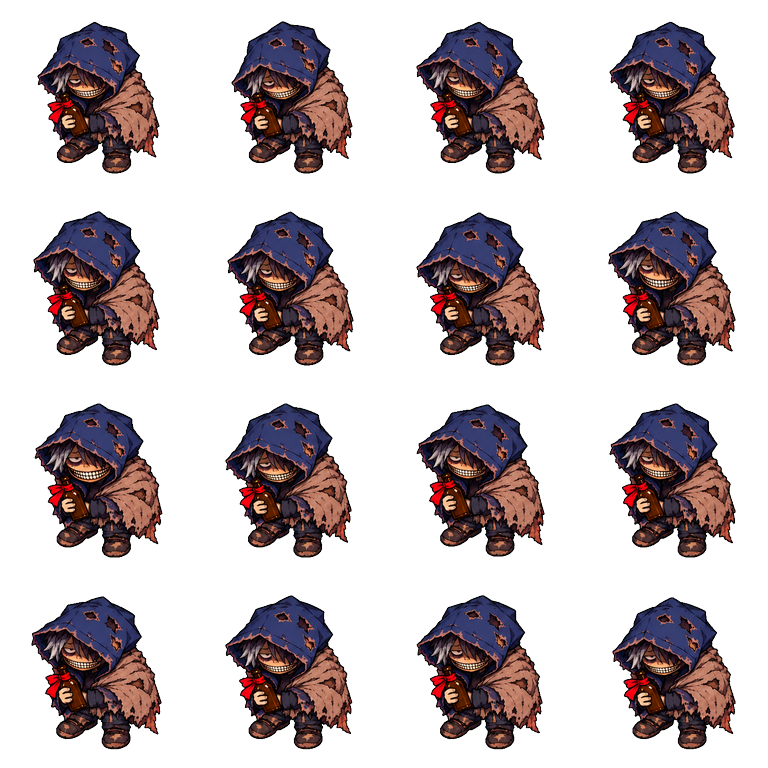
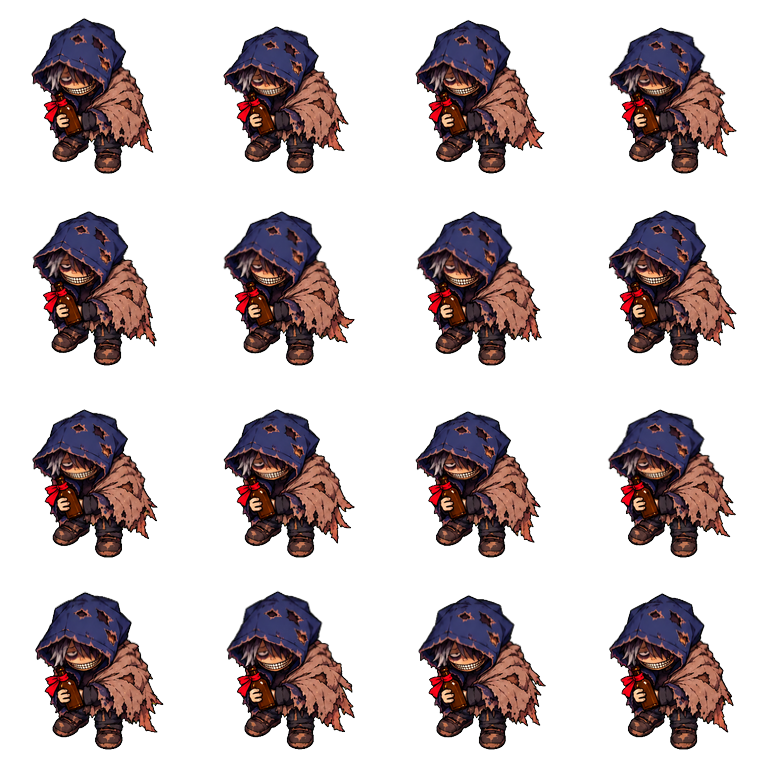
teste ?inimigo=mendigo: idle v10 + walk16 em 8 direções (cabeça própria, sem carimbo)

diff --git a/src/client/art/teste-inimigo.ts b/src/client/art/teste-inimigo.ts
@@ -1,14 +1,23 @@
 /**
  * TESTE (não vai para produção): `?inimigo=mendigo` troca a arte de TODOS os inimigos (horda, elites e chefe) pelo
- * parado de frente do mendigo (16 quadros, card marca-dos-inimigos v8). Só existe o parado de frente: o inimigo
- * desliza parado quando anda, toda direção mostra a frente e as ações (golpe, piada, morte) ficam sem arte.
- * Todos ficam do tamanho padrão (0,9 do herói), sem o tamanho por papel; a elite mantém o seu aumento.
+ * mendigo do card marca-dos-inimigos: parado de frente v10 (16 quadros, só a frente) e andar walk16 nas 8 direções
+ * (16 quadros por direção, uma página 4×4 por direção na ordem das linhas da horda: S, SW, W, NW, N, NE, E, SE; o SE
+ * é o espelho do SW). Anda na direção do movimento e fica parado de frente quando para; as ações (golpe, piada,
+ * morte) ficam sem arte. Todos ficam do tamanho padrão (0,9 do herói), sem o tamanho por papel; a elite mantém o
+ * seu aumento.
  */
 import type {ArtFile,ArtIndex,ArtPiece} from './manifest.ts';
 
-const TESTES:Readonly<Record<string,ArtFile>>={
-  mendigo:{file:'teste-mendigo/idle.webp',cell:[192,192],frames:16,directions:1,anchor:[.5,.9],fps:8,
-    pages:[{file:'teste-mendigo/idle.webp',columns:4,rows:4,firstFrame:0,frameCount:16}]},
+const DIRS=['S','SW','W','NW','N','NE','E','SE'] as const;
+const CEL:[number,number]=[192,192],PE:[number,number]=[.5,.9];
+const TESTES:Readonly<Record<string,Readonly<Record<string,ArtFile>>>>={
+  mendigo:{
+    idle:{file:'teste-mendigo/idle.webp',cell:CEL,frames:16,directions:1,anchor:PE,fps:8,
+      pages:[{file:'teste-mendigo/idle.webp',columns:4,rows:4,firstFrame:0,frameCount:16}]},
+    // 16 quadros em 600 ms; no jogo o passo segue o chão (ENEMY_WALK.byGround), o fps só vale fora dele
+    walk:{file:'teste-mendigo/walk-S.webp',cell:CEL,frames:16,directions:8,anchor:PE,fps:27,
+      pages:DIRS.map((d,i)=>({file:`teste-mendigo/walk-${d}.webp`,columns:4,rows:4,firstFrame:i*16,frameCount:16}))},
+  },
 };
 
 /** O id do teste pedido na URL (`?inimigo=<id>`), se existir. */
@@ -18,11 +27,11 @@ export function testeInimigo(search=typeof location==='undefined'?'':location.se
   return lido.id;
 }
 
-/** Cada peça de `inimigos` passa a ter só o parado do teste (e a mesma folha como camada de elite). */
+/** Cada peça de `inimigos` passa a ter só as animações do teste (e as mesmas folhas como camada de elite). */
 export function trocarInimigos(index:ArtIndex,id:string|undefined=testeInimigo()):ArtIndex{
-  const file=id&&TESTES[id],g=index.groups.inimigos;
-  if(!file||!g)return index;
+  const t=id&&TESTES[id],g=index.groups.inimigos;
+  if(!t||!g)return index;
   const pieces:Record<string,ArtPiece>=Object.create(null);
-  for(const pid of Object.keys(g.pieces))pieces[pid]={kind:'animations',files:{idle:file,'elite/idle':file}};
+  for(const pid of Object.keys(g.pieces))pieces[pid]={kind:'animations',files:Object.fromEntries(Object.entries(t).flatMap(([a,f])=>[[a,f],[`elite/${a}`,f]]))};
   return {...index,groups:{...index.groups,inimigos:{...g,pieces}}};
 }

diff --git a/tests/client/teste-inimigo.test.ts b/tests/client/teste-inimigo.test.ts
@@ -13,12 +13,16 @@ test('teste ?inimigo=mendigo: lê a chave da URL e ignora ids desconhecidos',()=
   assert.equal(testeInimigo('?inimigo=outro'),undefined);
   assert.equal(testeInimigo(''),undefined);
 });
-test('teste ?inimigo=mendigo: troca todos os inimigos pelo parado do mendigo, com camada de elite, e deixa o resto',()=>{
+test('teste ?inimigo=mendigo: troca todos os inimigos pelo parado e o andar de 8 direções do mendigo, com camada de elite, e deixa o resto',()=>{
   const idx=trocarInimigos(parseArtIndex(raw),'mendigo');
   for(const id of ['a','b']){
     const p=idx.groups.inimigos.pieces[id];
-    assert.deepEqual(Object.keys(p.files).sort(),['elite/idle','idle']);
+    assert.deepEqual(Object.keys(p.files).sort(),['elite/idle','elite/walk','idle','walk']);
     assert.equal(p.files.idle.file,'teste-mendigo/idle.webp');
+    const w=p.files.walk;
+    assert.equal(w.directions,8);assert.equal(w.frames,16);
+    assert.deepEqual(w.pages?.map(pg=>[pg.file,pg.firstFrame,pg.frameCount]),
+      ['S','SW','W','NW','N','NE','E','SE'].map((d,i)=>[`teste-mendigo/walk-${d}.webp`,i*16,16]));
   }
   assert.deepEqual(idx.groups.itens,parseArtIndex(raw).groups.itens);
 });
